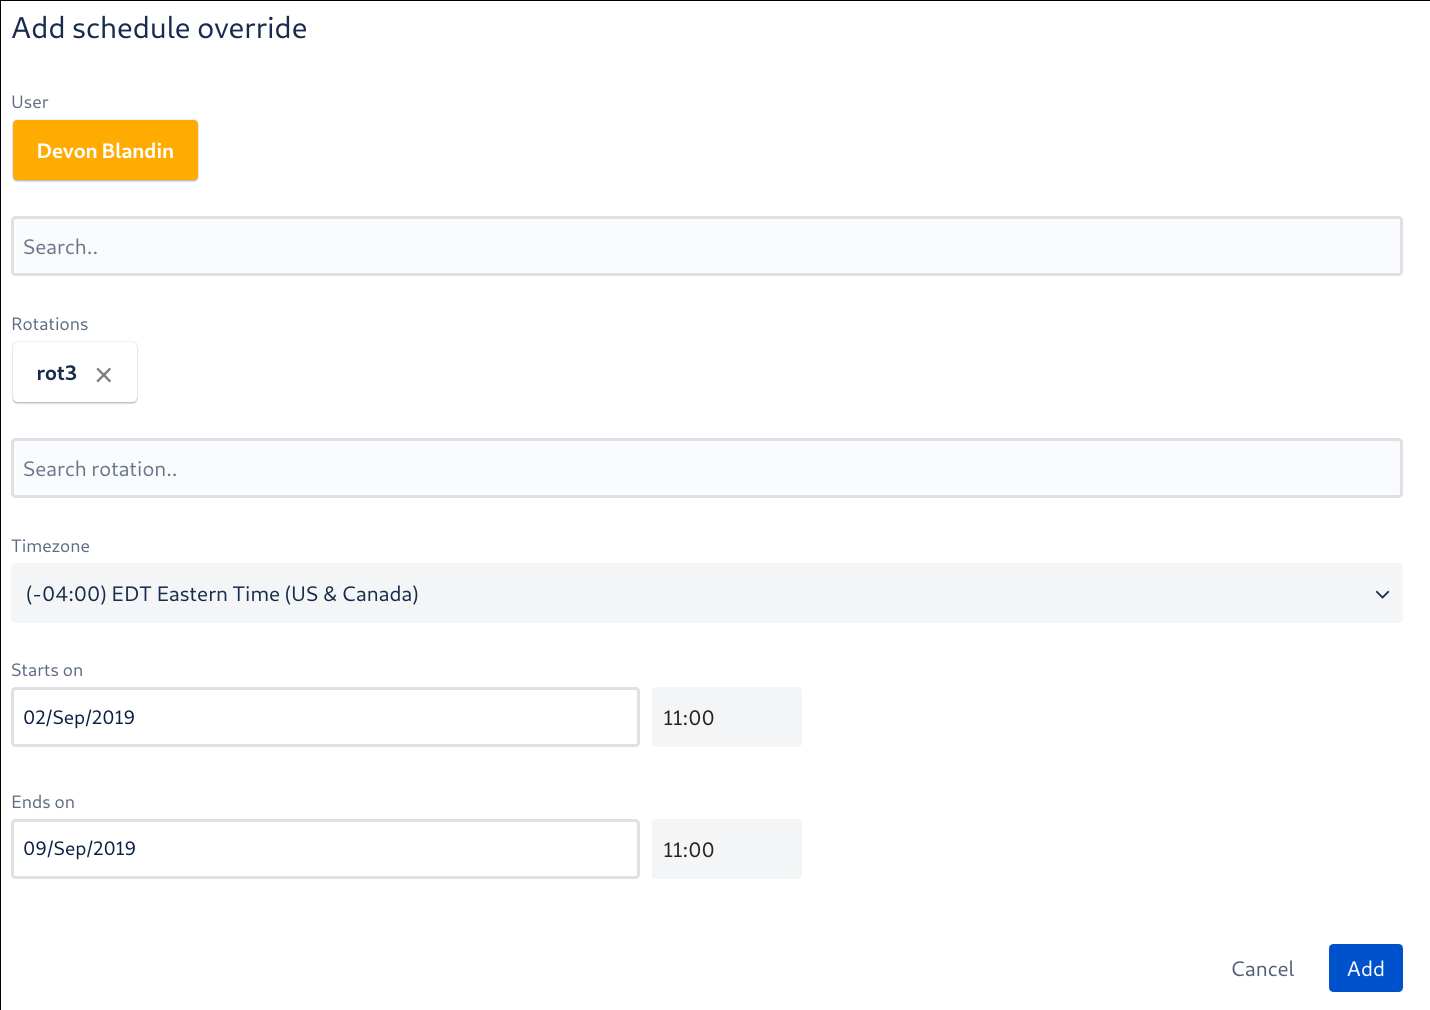
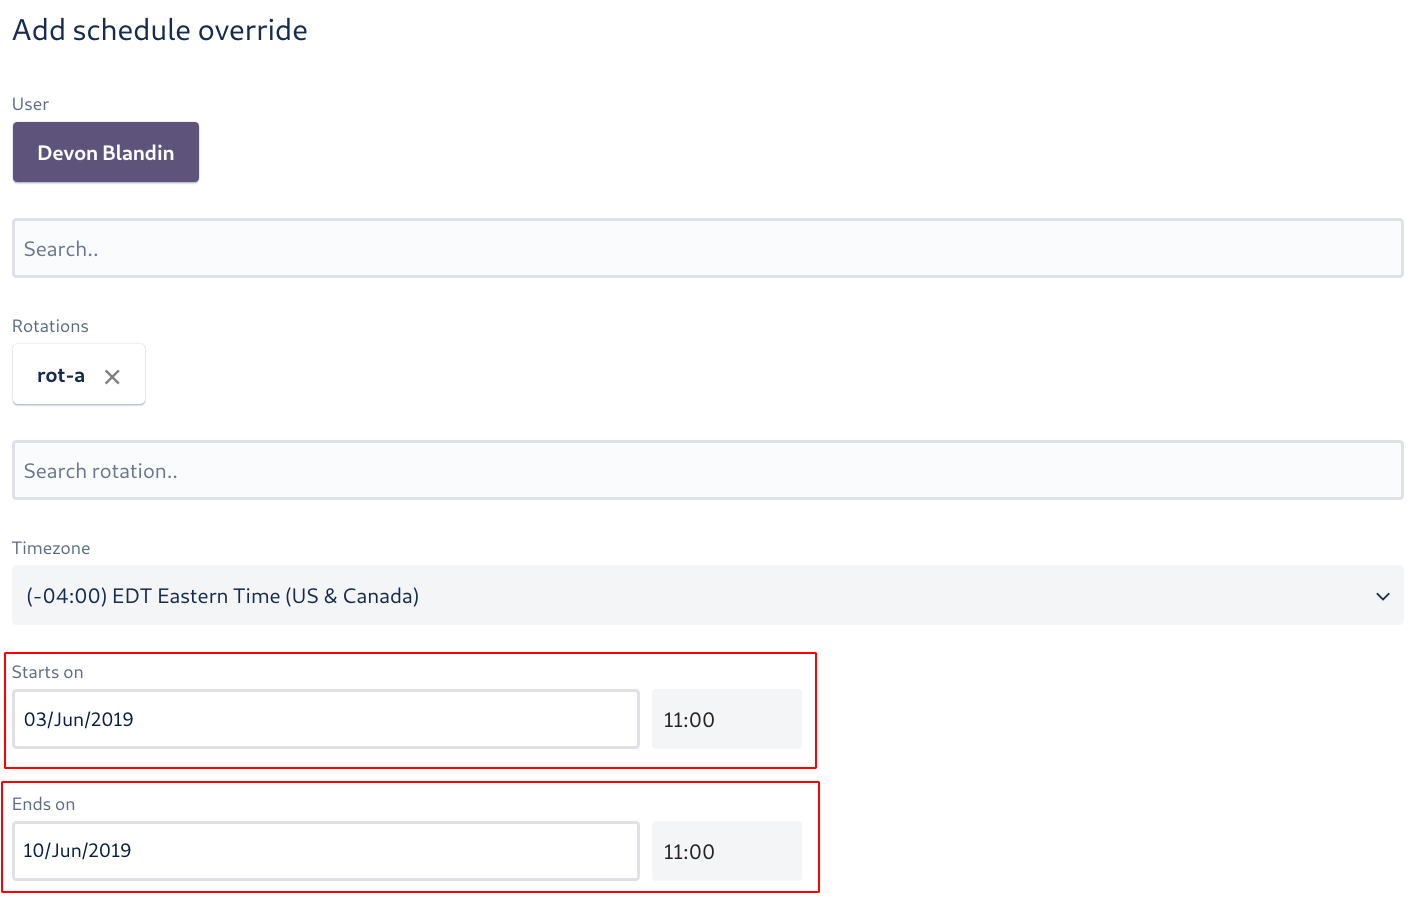
Address PR feedback

diff --git a/playbooks/support/scheduling.md b/playbooks/support/scheduling.md
@@ -9,32 +9,40 @@ timeline), we being scheduling the next round.
 
 ## Steps for Scheduling On-Call
 
+We use a staggered schedule to retain context and limit disruption as engineers shift in/out of rotation. "A"
+rotations start/end on a Monday at 11am. "B" rotations start/end on a Wednesday at 11am.
+
 1. Generate a list of current engineers. This should include everyone who started before the next round is supposed
    to begin (can use [Team Navigator][] as a reference)
-1. Randomly split engineers into two groups (A and B)
-1. Create a new OpsGenie rotation (1 of 2)
 
-   - Add all participants from group A into the rotation
-   - Set the rotation type to "weekly"
-   - Set the "Start on" date to correspond with the "End on" date from the previous first rotation
-   - Set the "Ends on" date far out enough so that every participant has one shift
-
-   <img width=500 src="images/opsgenie-schedule-5.png" />
-   <img width=500 src="images/opsgenie-schedule-4.png" />
-   <img width=500 src="images/opsgenie-schedule-3.png" />
-   <img width=500 src="images/opsgenie-schedule-0.png" />
-
-1. Create a new OpsGenie rotation (2 of 2)
-
-   - Add all participants from group B into the rotation
-   - Set the rotation type to "weekly"
-   - Set the "Start on" date to correspond with the "End on" date from the previous second rotation
-   - Set the "Ends on" date far out enough so that every participant has one shift
+1. Split engineers into A and B groups. Group B should include all engineers located outside of the Eastern Time
+   zone. This ensures that we always have one engineer on-call during Eastern working hours.
 
 1. Identify any exceptions/special cases and address them. These may include:
 
    - People who doubled-up the last round (should be left out of this round)
    - People who have very recently started (as a courtesy, you should schedule them towards the end of the round)
+
+1. Create a new A rotation:
+
+   - Name the new rotation "rot-a-next"
+   - Add all participants from group A into the A rotation
+   - Set the rotation type to "weekly"
+   - Set the "Start on" date to correspond with the "End on" date from the previous A rotation
+   - Set the "Ends on" date far out enough so that every participant has one shift
+
+   <img width=800 src="images/opsgenie-schedule-0.png" />
+   <img width=800 src="images/opsgenie-schedule-1.png" />
+
+1. Create a new B rotation:
+
+   - Name the new rotation "rot-b-next"
+   - Add all participants from group B into the rotation
+   - Set the rotation type to "weekly"
+   - Set the "Start on" date to correspond with the "End on" date from the previous B rotation
+   - Set the "Ends on" date far out enough so that every participant has one shift
+
+  <img width=800 src="images/opsgenie-schedule-2.png" />
 
 1. Put a note in the #dev channel announcing that the new rotations are up. This may look something like:
 
@@ -43,7 +51,9 @@ timeline), we being scheduling the next round.
    > The upcoming Engineering On-Call rotations are up on OpsGenie. Please take some time to review the schedule
    > and trade shifts as needed.
 
-1. Schedule a reminder to repeat this process for the next round
+1. Schedule a reminder in Slack to remove the previous rotations and remove -next rotation name suffixes.
+1. Schedule a reminder in Slack to repeat this process for the next round about a month before the next round is
+   schedule to end.
 
 [team navigator]: https://team.artsy.net
 
@@ -54,12 +64,11 @@ To switch shifts you may schedule an override in OpsGenie.
 To override a shift:
 
 1. Navigate to [Engineering On-Call Schedule][schedule]
-1. Find the shift you'd like to override
-1. Hover over the shift and click override
+1. Find and hover over the shift and click override:
 
    <img width=500 src="images/opsgenie-override-0.png" />
 
-1. You may want to update the default configuration
+1. You may want to update the default configuration:
 
    - By default, you will take the shift. If you'd like to assign someone else, search for and assign them
    - By default, you will override the entire shift. If you'd like to partially override the shift, adjust the
@@ -67,7 +76,7 @@ To override a shift:
 
    <img width=500 src="images/opsgenie-override-1.png" />
 
-1. Click Add and verify your override.
+1. Click "Add" and verify your override:
 
    <img width=500 src="images/opsgenie-override-2.png" />
 
